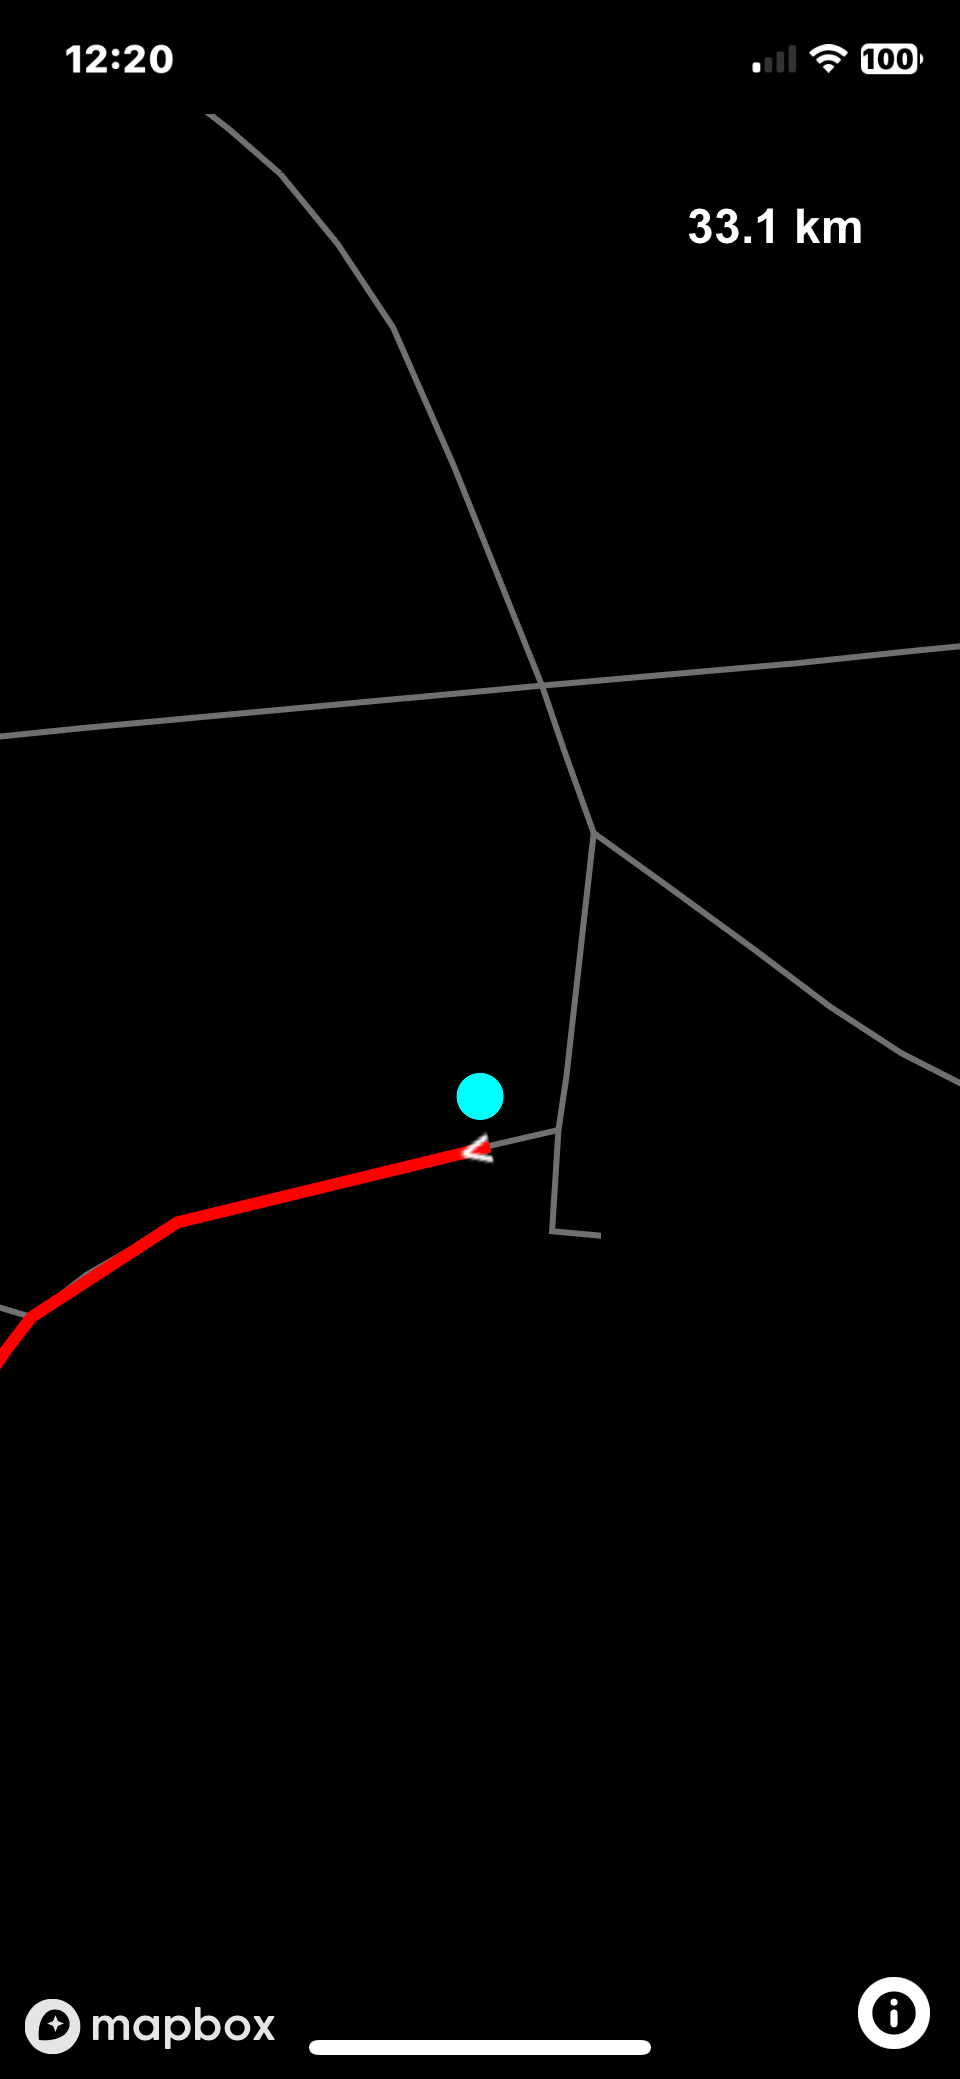
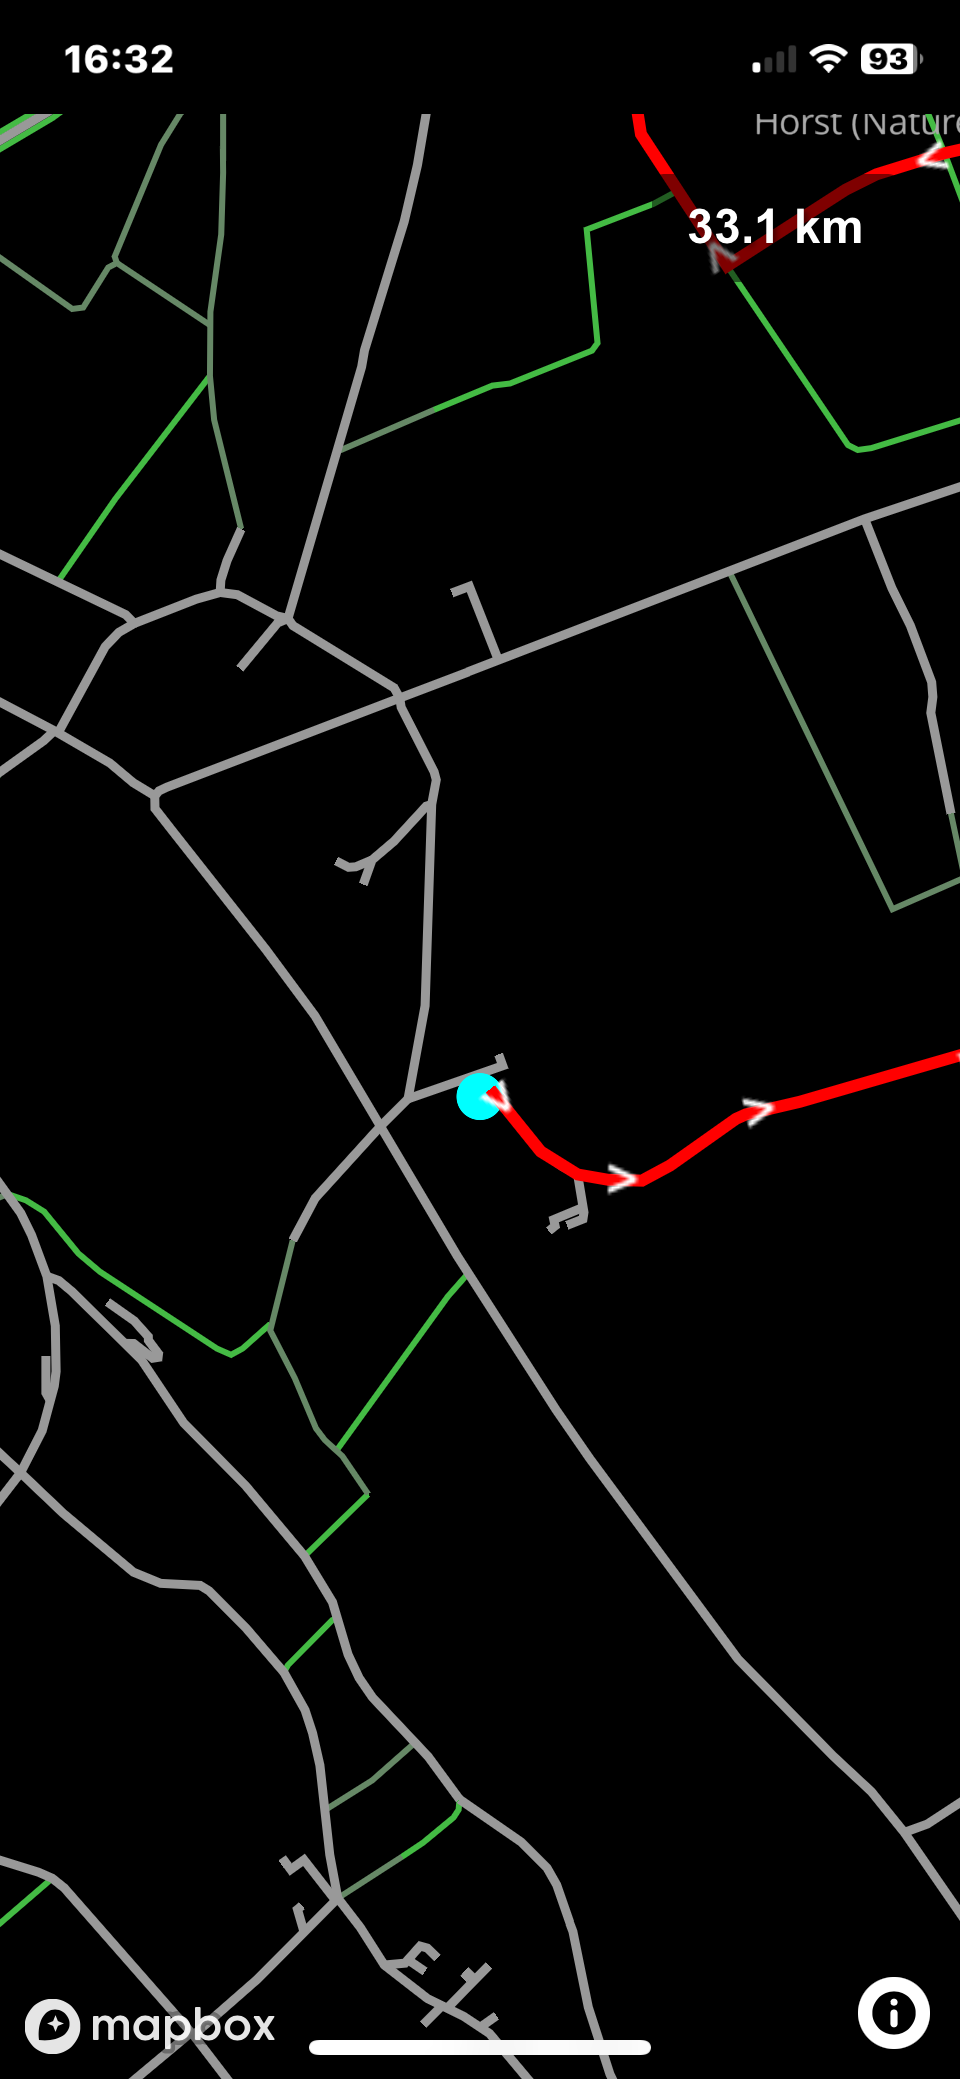
update the demo screenshot and readme

diff --git a/README.md b/README.md
@@ -16,9 +16,11 @@ Browse to https://brownrl.github.io/gpxtrack/ and save it to your home screen. I
 
 1. Export a GPX file from your favorite app to you files.
 2. Open the GPX app on your phone.
-3. Tap the Folder icon in the bottom right corner.
+3. Tap the Folder icon in the bottom left corner.
 4. Select the GPX file you exported.
 5. Start moving, I personally prefer to use a bicycle, but it works with walking too.
+
+The globe button will open a drawer with quick links to Google Maps with certains types of locations already searched for you. (Lodging, Restaurants, etc.)
 
 ### Demo Screenshot
 ![Demo Screenshot](https://raw.githubusercontent.com/brownrl/gpxtrack/master/demo.png)
